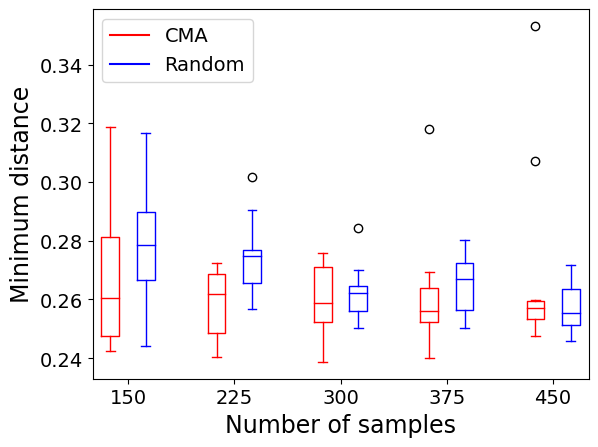
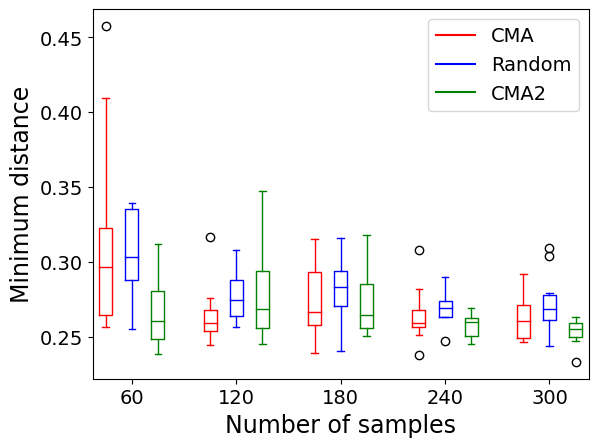
update cartpole dqn

diff --git a/scripts/run_cartpole_dqn.py b/scripts/run_cartpole_dqn.py
@@ -9,7 +9,7 @@ from robustness.analysis.algorithms import (CMASolver, CMASystemEvaluator,
                                             ExpectationSysEvaluator,
                                             RandomSolver)
 from robustness.analysis.utils import L2Norm, normalize
-from robustness.envs.cartpole import DevCartPole, SafetyProp
+from robustness.envs.cartpole import DevCartPole, SafetyProp, SafetyProp2
 from robustness.evaluation import Evaluator, Experiment
 from robustness.evaluation.utils import boxplot
 
@@ -58,12 +58,42 @@ evaluator2 = Evaluator(prob, random_solver)
 experiment2 = Experiment(evaluator2)
 data2 = experiment2.run_diff_max_samples('Random', samples, out_dir='data/cartpole-dqn/random')
 
-# plt.figure()
-# plt.xlabel('Number of samples')
-# plt.ylabel('Minimum distance')
-# boxplot([data1, data2], ['red', 'blue'], samples * (1 + solver.options()['restarts']),
-#         ['CMA', 'Random'])
-# plt.savefig('gifs/cartpole-dqn/fig-boxplot.png', bbox_inches='tight')
+# Use STL2 Evaluator
+phi = SafetyProp2()
+prob = Problem(env, agent, phi, L2Norm(env))
+sys_eval = CMASystemEvaluator(0.4, phi, {'timeout': 1, 'episode_len': 200})
+solver = CMASolver(0.2, sys_eval)
+evaluator = Evaluator(prob, solver)
+experiment = Experiment(evaluator)
+data3 = experiment.run_diff_max_samples('STL2', samples, out_dir='data/cartpole-dqn/stl2')
+idx = np.argmin(data3['min_dist'])
+plt.figure()
+evaluator.heatmap(
+    masses, forces, 25, 25,
+    x_name="Mass", y_name="Force", z_name="System Evaluation $\Gamma$",
+    out_dir='data/cartpole-dqn',
+    boundary=data3['min_dist'].iat[idx],
+    vmax=0.2
+)
+min_delta = normalize(data3['min_delta'].iat[idx], env.get_dev_bounds())
+plt.scatter(min_delta[0]*25, min_delta[1]*25, color='yellow')
+plt.title('Robustness $\hat{\Delta}: ||\delta - \delta_0||_2 < %.3f$' % data3['min_dist'].iat[idx])
+plt.savefig('gifs/cartpole-dqn/fig-robustness-stl2.png', bbox_inches='tight')
+
+plt.figure()
+plt.xlabel('Number of samples')
+plt.ylabel('Minimum distance')
+boxplot(
+    [
+        [data1['min_dist'].loc[x] for x in samples],
+        [data2['min_dist'].loc[x] for x in samples],
+        [data3['min_dist'].loc[x] for x in samples],
+    ],
+    ['red', 'blue', 'green'],
+    samples * (1 + solver.options()['restarts']),
+    ['CMA', 'Random', 'CMA2']
+)
+plt.savefig('gifs/cartpole-dqn/fig-boxplot.png', bbox_inches='tight')
 # plt.show()
 
 # Use expection evaluator

diff --git a/robustness/envs/car_circle.py b/robustness/envs/car_circle.py
@@ -4,7 +4,7 @@ from bullet_safety_gym.envs.tasks import angle2pos
 from rsrl.evaluator import Evaluator
 from rsrl.util.run_util import setup_eval_configs
 
-from robustness.analysis.stl import STLEvaluator
+from robustness.analysis.stl import STLEvaluator, STLEvaluator2
 from robustness.envs import DeviatableEnv
 
 
@@ -73,3 +73,9 @@ class SafetyProp(STLEvaluator):
         return {
             'x': stl.Signal(np.abs(record[:, 0]), time_index)
         }
+
+
+class SafetyProp2(STLEvaluator2):
+    def eval_one_timepoint(self, obs):
+        x = np.abs(obs[0])
+        return 0.7 - x
